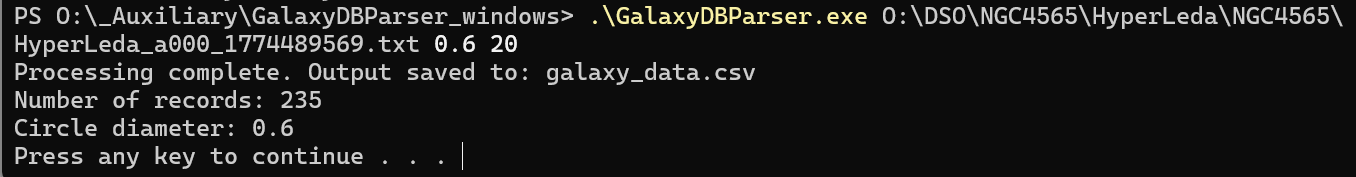
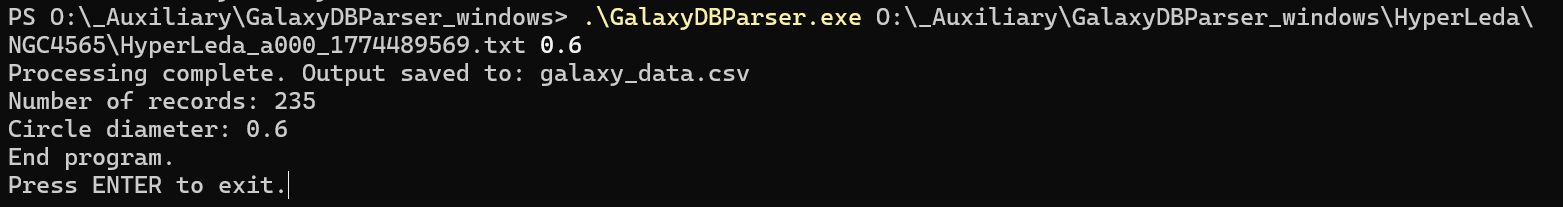
Update to readme file.

Changed region(s): [[0.0, 0.0282, 0.9912, 0.9605]]

diff --git a/README.md b/README.md
@@ -10,13 +10,13 @@ For instance, in the image of NGC4565 below, only 8 PGC objects are revealed, al
 
 If you want more objects to be displayed, you will have to extract the corresponding data from the HyperLeda database.
 
-The GalaxyDBParser program in this repo will select the galaxies from the data downloaded from HyperLeda and create a .csv file that can be used as a custom catalog in the AnnotateImage script.
+The GalaxyDBParser program in this repo will select the galaxies from the data downloaded from HyperLeda and create a .csv file that can be used as a custom catalog in the AnnotateImage script in PixInsight.
 
-Before downloading data from HyperLeda, you have to determine the angular radius around the object of interest so that HyperLeda to select the objects in the area defined by the angular radius. In the image above, the object of interest is in the center - NGC4565 (Needle Galaxy). In this particular case the radius around NGC4565 would be half of the image diagonal. The diagonal is roughly 50 arcminutes, so, a radius of 25 arcminutes would cover the entire image. You can determine the agular size in PixInsight by using the AngularDistance script.
+Before downloading data from HyperLeda, you have to determine the angular radius around the object of interest so that HyperLeda to select only the objects in the area defined by the angular radius. In the image above, the object of interest is in the center - NGC4565 (Needle Galaxy). In this particular case the radius around NGC4565 would be half of the image diagonal. The diagonal is roughly 50 arcminutes, so, a radius of 25 arcminutes would cover the entire image. You can determine the agular size in PixInsight by using the AngularDistance script.
 
 Now you can download the data from the database: open the HyperLeda site (http://atlas.obs-hp.fr/hyperleda/), select “Search near a position or name”. The following page will be displayed.
 ![HL_SearchNearPositionOrName.png](Images/HL_SearchNearPositionOrName.png)
-Input the object name in “**_Object designation_**” field, Click on “_**Find coordinates in HyperLeda**_” button. The celestial position (initially empty) will be displayed.
+Input the object name in the “**_Object designation_**” field, Click on “_**Find coordinates in HyperLeda**_” button. The celestial position (initially empty) will be displayed.
 In the “**_Search radius_**” field input the desired radius (25 arcmin in our case) and press the “**_List objects in HyperLeda_**” button.
 
 In the next page, press on the “**_Advanced constraints_**” button.
@@ -28,10 +28,8 @@ At the bottom of the page, change “**_Output as_**” from “**_plain HTML_**
 ![HL_Index_2.png](Images/HL_Index_2.png)
 You will be asked to save a text file (**HyperLeda\_a000\_nnnnnnnnnn.txt**), this is the file having the objects in the database within the selected radius and around the selected position. The columns of the file are delimited with semicolons. Save the file.
 
-Go to the location of the GalaxyDBParser program and run it with the path of the formerly saved file as the first commandline parameter, the file name as second parameter and the desired diameter of the circle that will mark the object in the annotated image as the third parameter.
+Go to the location of the GalaxyDBParser program and run it with the path and the name of the formerly saved file as the first commandline parameter and the desired diameter of the circle that will mark the object in the annotated image as the second parameter.
 If there are few objects in the image you can use a bigger value for the diameter (1, 1.5), but if there are many objects use a smaller value to avoid overlapping.
-
-_.\GalaxyDBParser.exe D:\Downloads\HyperLeda_a000_1774489569.txt 0.6_
 ![OutputWin.png](Images/OutputWin.png)
 The program has added 235 objects into the output file.
 
@@ -40,6 +38,7 @@ The program keeps only the galaxies in the database, discards the other objects 
 As of version 1.1, the magnitude of the selected objects can be limited so that only what is visible in the image gets annotated, based on the maximal magnitude that can be found in the image.
 To do this, run the program without parameters, ignore the message that there are insufficient arguments in the commandline and answer "y" to continue running the program and input the necessary data. The program will ask for the path to the database file saved fom the HyperLeda site, the file name itself, the diameter of the object circles that will be drawn around the objects and, finally, the magnitude limit for the objects in the database. If you do not wish to limit the magnitude, input "_999_" to the last data request.
 ![OutputWinNoArguments.png](Images/OutputWinNoArguments.png)
+With magnitude limited to 20, there will be 120 objects in the output file.
 Now you can use the output file (galaxy_data.csv) in PixInsight.
 
 Start PixInsight and launch the **_AnnotateImage_** script.